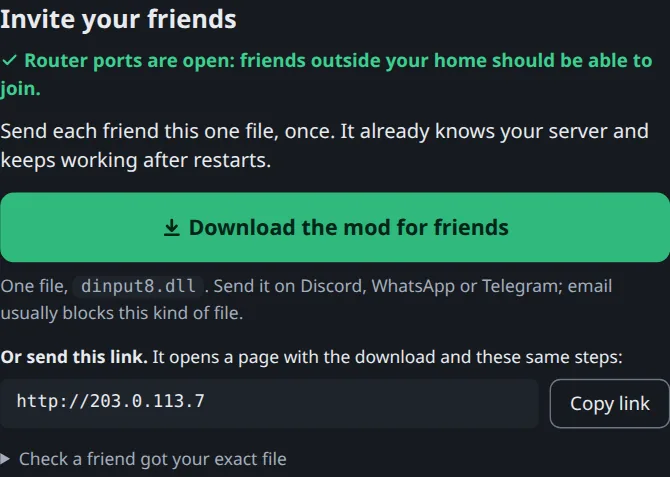
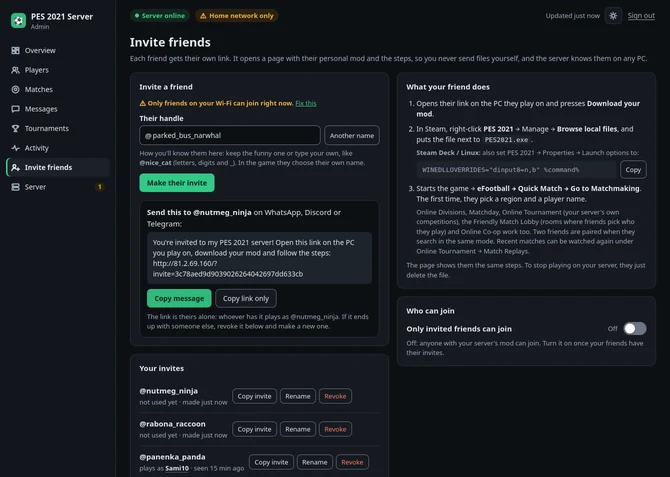
README and website: Linux-only hosting, install once, update on the admin page, invites

diff --git a/docs/index.html b/docs/index.html
@@ -447,35 +447,33 @@ footer a { color: var(--muted); display: inline-block; padding: 3px 0; }
       <div class="card step" id="host">
         <div>
           <div class="step-num" aria-hidden="true">1</div>
-          <h3>The host starts the server</h3>
-          <p class="small">One person hosts on their PC (Windows, Linux or Steam Deck) and keeps it on while you play: one line, about a minute, nothing to install.</p>
-          <p class="small muted"><b>Windows:</b> open the Start menu, type <b>PowerShell</b>, press Enter, paste the Windows line and press Enter. <b>Linux:</b> open a terminal (on Ubuntu <b>Ctrl+Alt+T</b>) and paste the Linux line. <b>Steam Deck:</b> switch to Desktop Mode, open <b>Konsole</b> and paste the Linux line.</p>
-          <p class="small muted">It downloads the server (15–30 MB, no administrator rights needed) and shows <b>your admin page</b> and <b>its password</b>. Keep that window open while you play; <b>Ctrl+C</b> or closing it stops the server. Next time, paste the same line: it always starts the newest version.</p>
+          <h3>The host installs the server</h3>
+          <p class="small">One person hosts on their <b>Linux</b> PC or <b>Steam Deck</b> and keeps it on while you play: one line, once, about a minute.</p>
+          <p class="small muted"><b>Linux:</b> open a terminal (on Ubuntu <b>Ctrl+Alt+T</b>) and paste the line. <b>Steam Deck:</b> switch to Desktop Mode, open <b>Konsole</b> and paste it.</p>
+          <p class="small muted">It downloads the server (about 30 MB, no sudo), runs it <b>in the background</b> (it starts by itself when you log in), adds <b>PES 2021 Server</b> to your apps menu and opens <b>your admin page</b>. You can close the terminal. Updating, restarting and stopping are buttons on the admin page (Server).</p>
         </div>
         <div>
-          <div class="cmd"><span class="label">Windows PowerShell</span><pre id="c-host-win">irm https://<wbr>raw.<wbr>githubusercontent.<wbr>com/<wbr>MohamedAliRashad/<wbr>pes2021-private-server/<wbr>main/<wbr>run.<wbr>ps1 | iex</pre><button class="copy" data-copy="c-host-win" type="button">Copy</button></div>
-          <div class="cmd"><span class="label">Linux, Steam Deck, Mac terminal</span><pre id="c-host">curl -fsSL https://<wbr>raw.<wbr>githubusercontent.<wbr>com/<wbr>MohamedAliRashad/<wbr>pes2021-private-server/<wbr>main/<wbr>run.<wbr>sh | sh</pre><button class="copy" data-copy="c-host" type="button">Copy</button></div>
+          <div class="cmd"><span class="label">Linux or Steam Deck terminal</span><pre id="c-host">curl -fsSL https://<wbr>raw.<wbr>githubusercontent.<wbr>com/<wbr>MohamedAliRashad/<wbr>pes2021-private-server/<wbr>main/<wbr>run.<wbr>sh | sh</pre><button class="copy" data-copy="c-host" type="button">Copy</button></div>
           <div class="banner-mock" role="img" aria-label="Example of what the host sees when the server is ready: the admin page address and its password.">
             <div class="bm-title">⚽ PES 2021 SERVER <span>● ONLINE</span></div>
             <div><span class="bm-k">Admin page</span>http://192.168.1.50/admin</div>
             <div><span class="bm-k">Password</span>k7Rm-2Qx9-PaLw</div>
           </div>
           <ul class="small muted linuxes">
-            <li><b>Windows:</b> the first time, Windows asks whether to let the server through its firewall: click <b>Allow</b>. New, needs testers.</li>
-            <li><b>Linux:</b> on Linux the admin page is at <code>http://&lt;address&gt;:8080/admin</code> (the window shows it). If it says <code>curl: command not found</code>, run <code>sudo apt install curl</code> first. <b>Fedora</b> also needs its firewall opened: <code>sudo firewall-cmd --permanent --add-port={8080,10000}/tcp --add-port={3478,7600}/udp &amp;&amp; sudo firewall-cmd --reload</code></li>
-            <li><b>Steam Deck, Mac (Apple silicon):</b> new, needs testers.</li>
+            <li><b>Linux:</b> the admin page is at <code>http://localhost:8080/admin</code> on the server's own PC (from other devices: <code>http://&lt;address&gt;:8080/admin</code> with the password on its Server page). If it says <code>curl: command not found</code>, run <code>sudo apt install curl</code> first. <b>Fedora</b> also needs its firewall opened: <code>sudo firewall-cmd --permanent --add-port={8080,10000}/tcp --add-port={3478,7600}/udp &amp;&amp; sudo firewall-cmd --reload</code></li>
+            <li><b>Steam Deck:</b> new, needs testers.</li>
             <li>Tested on a desktop Linux PC. Players who use the mod need nothing else; the older "join line" setup without the mod needs port 443, which on Linux only a server started with administrator rights gets.</li>
           </ul>
           <details class="changes">
             <summary>What the line does</summary>
             <ul>
-              <li>Prefer to read it first? <a href="https://github.com/MohamedAliRashad/pes2021-private-server/blob/main/run.ps1">run.ps1</a> (Windows) and <a href="https://github.com/MohamedAliRashad/pes2021-private-server/blob/main/run.sh">run.sh</a> (Linux, Mac) are about 40 lines each.</li>
-              <li>Downloads the server program from this project's <a href="https://github.com/MohamedAliRashad/pes2021-private-server/releases/latest">latest release</a> (built by GitHub from the public code), only when there's a newer one, and runs it in that window as your own user: no administrator rights, nothing installed system-wide. It uses about 50 MB of memory.</li>
-              <li>Keeps the program, players, results and its log in one folder: <code>%LOCALAPPDATA%\PES2021 Server</code> on Windows, <code>~/.local/share/pes2021-server</code> on Linux. Delete that folder to remove everything.</li>
+              <li>Prefer to read it first? <a href="https://github.com/MohamedAliRashad/pes2021-private-server/blob/main/run.sh">run.sh</a> is about 50 lines.</li>
+              <li>Downloads the server program from this project's <a href="https://github.com/MohamedAliRashad/pes2021-private-server/releases/latest">latest release</a> (built by GitHub from the public code) and sets it up as your own user, no sudo: a <code>systemd --user</code> service (so it runs without a window and starts when you log in), an apps-menu entry and the <code>pes2021-server</code> command. Updates from the admin page are checked against the release's checksums and test-run before they replace the program.</li>
+              <li>Keeps the program, players, results and its log in one folder: <code>~/.local/share/pes2021-server</code>.</li>
               <li>Opens ports on your router (UPnP) so friends outside your home can reach you, and closes them when the server stops; after a power cut they usually expire on their own within 2 hours.</li>
               <li>If PES 2021 is installed on this computer, the admin page can put the mod in for you with one click. On Linux it also sets the Wine option in the game's Proton prefix (only its registry file is changed, and a backup copy, <code>user.reg.pes2021-backup</code>, is kept next to it).</li>
               <li>The admin page is plain HTTP and opens only from your home network (and Tailscale).</li>
-              <li>While your router ports are open, your server's address is public: anyone who has it can open your friends' page, download the mod and join. There's no ban yet; <b>Kick</b> on the admin page disconnects someone, but they can come back.</li>
+              <li>While your router ports are open, your server's address is public: anyone who has it can open your friends' page, download the mod and join, unless you turn on <b>Only invited friends can join</b> (Invite friends). <b>Revoke</b> locks one person out.</li>
             </ul>
           </details>
         </div>
@@ -484,16 +482,16 @@ footer a { color: var(--muted); display: inline-block; padding: 3px 0; }
       <div class="card step" id="share">
         <div>
           <div class="step-num" aria-hidden="true">2</div>
-          <h3>The host sends friends one file</h3>
-          <p class="small muted">Open your admin page, sign in with the password, and click <b>Download the mod for friends</b>. You get one small file, <code>dinput8.dll</code>, made for your server.</p>
+          <h3>The host invites each friend</h3>
+          <p class="small muted">On your admin page open <b>Invite friends</b> and press <b>Make their invite</b>. Each friend gets a handle like <b>@nutmeg_ninja</b> (keep the funny one or type your own) and their own link; the page they open has their personal mod and the steps.</p>
           <p class="small muted"><b>Before you send it,</b> look at the top of your admin page: <b>✓ Router ports open</b> means friends outside your home should be able to connect. If it says <b>Friends use</b> and your address (you set a fixed one), friends can connect only if that address's ports are open; the server can't check this itself. If it says <b>Home network only</b>, only friends on your Wi-Fi can join; for friends elsewhere, or if it warns about router ports or CGNAT, see <a href="#hosthelp">Help → For hosts</a>.</p>
-          <p class="small muted">Send it to each friend on <b>Discord, WhatsApp or Telegram</b>. Email usually blocks this kind of file. Or copy the link under the button (your server's address) and send that: it opens a page where friends download the file themselves.</p>
+          <p class="small muted"><b>Copy message</b> and send it on <b>Discord, WhatsApp or Telegram</b>. The link is theirs alone: it's how the server knows them on any PC. In the game they still pick their own name.</p>
           <p class="small muted"><b>First test:</b> have one friend start the game. They appear under <b>Online now</b> on your admin page within a minute.</p>
         </div>
         <div>
           <figure class="mini-shot">
-            <a class="light" href="admin-invite-light.webp"><img src="admin-invite-light.webp" width="670" height="477" loading="lazy" alt="The top of the real admin page: Invite your friends, the router status, a large Download the mod for friends button, and a link to send instead."></a>
-            <a class="dark" href="admin-invite-dark.webp"><img src="admin-invite-dark.webp" width="670" height="477" loading="lazy" alt="The top of the real admin page in dark mode: Invite your friends, the router status, a large Download the mod for friends button, and a link to send instead."></a>
+            <a class="light" href="admin-invite-light.webp"><img src="admin-invite-light.webp" width="670" height="477" loading="lazy" alt="The real admin page, Invite friends: a handle box with @nutmeg_ninja, Make their invite, the message with their personal link to copy, and the list of invites."></a>
+            <a class="dark" href="admin-invite-dark.webp"><img src="admin-invite-dark.webp" width="670" height="477" loading="lazy" alt="The real admin page in dark mode, Invite friends: a handle box, Make their invite, the message with their personal link to copy, and the list of invites."></a>
             <figcaption class="small muted">Click or tap to enlarge.</figcaption>
           </figure>
           <p class="small muted"><b>Playing on the same PC?</b> If the installer found PES 2021 on it, the admin page has a <b>The server computer</b> card: close the game and click <b>Install mod</b>.</p>
@@ -583,7 +581,6 @@ footer a { color: var(--muted); display: inline-block; padding: 3px 0; }
         <thead><tr><th scope="col">What you see</th><th scope="col">What to do</th></tr></thead>
         <tbody>
           <tr><td>The window says "The server can't start: port … is already in use"</td><td>Another server is already running on this computer: close its window, then paste the line again.</td></tr>
-          <tr><td>Windows says "Windows protected your PC"</td><td>That happens if you downloaded the .exe with a browser (the program isn't signed). Click <b>More info → Run anyway</b>, or use the PowerShell line instead.</td></tr>
           <tr><td>The host's screen says "Router ports are closed"</td><td>Turn on UPnP in your router's settings and start the server again, or forward the ports it lists.</td></tr>
           <tr><td>The host's screen warns about "CGNAT"</td><td>Your internet provider shares one public IP between customers, so friends outside your home can't reach you. Use Tailscale (see <a href="#faq-far">playing with friends far away</a>).</td></tr>
           <tr><td>It works on the host's PC, but nobody else can connect</td><td>The host computer's own firewall is blocking the ports. On Ubuntu with ufw: <code>sudo ufw allow 80,443,8080,10000/tcp</code> and <code>sudo ufw allow 3478,7600/udp</code>. On Fedora: <code>sudo firewall-cmd --permanent --add-port={80,443,8080,10000}/tcp --add-port={3478,7600}/udp &amp;&amp; sudo firewall-cmd --reload</code>. On a cloud server, also open them in the provider's firewall settings.</td></tr>
@@ -654,21 +651,21 @@ footer a { color: var(--muted); display: inline-block; padding: 3px 0; }
       <p>Probably: one test between two homes connected fine (the match itself then needed the mod fix above). The server opens the host's router ports automatically; the match itself then needs the two players' PCs to reach each other directly. If they can't ("Failed to connect with opponent"), put everyone on one private network with <a href="https://tailscale.com">Tailscale</a>, a free app for small groups (this workaround is untested too):</p>
       <ul>
         <li>Everyone installs Tailscale and joins the host's network.</li>
-        <li>The host stops the server and starts it again with their Tailscale address (shown in the Tailscale app), then downloads a fresh mod file for friends:</li>
+        <li>The host runs the install line again with their Tailscale address (shown in the Tailscale app); the server restarts with it. Friends then open their invite links again for a fresh mod:</li>
       </ul>
-      <div class="cmd"><span class="label">Windows PowerShell: replace 100.x.y.z with the host's Tailscale address</span><pre id="c-ts-win">$env:PUBLIC_IP="100.<wbr>x.<wbr>y.<wbr>z"; irm https://<wbr>raw.<wbr>githubusercontent.<wbr>com/<wbr>MohamedAliRashad/<wbr>pes2021-private-server/<wbr>main/<wbr>run.<wbr>ps1 | iex</pre><button class="copy" data-copy="c-ts-win" type="button">Copy</button></div>
-      <div class="cmd"><span class="label">Linux, Steam Deck, Mac</span><pre id="c-ts">curl -fsSL https://<wbr>raw.<wbr>githubusercontent.<wbr>com/<wbr>MohamedAliRashad/<wbr>pes2021-private-server/<wbr>main/<wbr>run.<wbr>sh | PUBLIC_IP=100.<wbr>x.<wbr>y.<wbr>z sh</pre><button class="copy" data-copy="c-ts" type="button">Copy</button></div>
+      <div class="cmd"><span class="label">Linux or Steam Deck: replace 100.x.y.z with the host's Tailscale address</span><pre id="c-ts">curl -fsSL https://<wbr>raw.<wbr>githubusercontent.<wbr>com/<wbr>MohamedAliRashad/<wbr>pes2021-private-server/<wbr>main/<wbr>run.<wbr>sh | PUBLIC_IP=100.<wbr>x.<wbr>y.<wbr>z sh</pre><button class="copy" data-copy="c-ts" type="button">Copy</button></div>
       <p>The server now has a built-in relay for exactly this case, on by default: when the two PCs can't reach each other, the match runs through the host's server instead (it needs a few more router ports, which the server opens with UPnP). So far it has only been tested on one PC, so Tailscale stays the safe fallback.</p>
     </details>
     <h3 class="faqh" id="faq-hosts">For hosts</h3>
     <details class="q" id="faq-host">
       <summary>How do I see the password again, stop or update the server?</summary>
       <ul>
-        <li><b>The admin page:</b> on the server's own PC it opens without a password (<code>http://localhost:8080/admin</code>, or <code>http://localhost/admin</code> on Windows). Other devices on your Wi-Fi or Tailscale use the address and password shown in the server's window. Away from home, turn on <b>Admin page from the internet</b> on its Network card: it then opens at <code>https://&lt;your internet address&gt;:8080/admin</code>, encrypted, with the password. The browser warns once, because the certificate is the server's own; the Network card shows its fingerprint.</li>
-        <li><b>Started with the one line (your PC):</b> the address and password are in the server's window. <b>Ctrl+C</b> or closing the window stops it (and closes the router ports it opened). Paste the same line to start it again: it updates itself first, and players, results and friends' mod files are kept. The admin page also tells you when a newer version is out.</li>
-        <li>Remove everything: first click <b>Uninstall</b> on the admin page's server-computer card (if you used it). Then delete the server's folder: <code>%LOCALAPPDATA%\PES2021 Server</code> on Windows, <code>~/.local/share/pes2021-server</code> on Linux. This deletes players, results and the server's identity, so old mod files stop working.</li>
+        <li><b>The admin page:</b> on the server's own PC it opens without a password: <b>PES 2021 Server</b> in your apps menu (it also starts a stopped server), <code>pes2021-server open</code>, or <code>http://localhost:8080/admin</code>. Other devices on your Wi-Fi or Tailscale use the address and password on its <b>Server</b> page. Away from home, turn on <b>Admin page from the internet</b> on the Network card.</li>
+        <li><b>Update, restart, stop:</b> admin page → <b>Server</b> → <b>The server program</b>. When a newer version is out a banner says so: <b>Update now</b>, or <b>Update when nobody's playing</b>. The server restarts in a few seconds; players, results and friends' mods are kept. <b>Start when I log in</b> switches the background start on or off.</li>
+        <li>If something is broken, run the install line again: it repairs the setup and updates the program.</li>
+        <li>Remove everything: click <b>Uninstall</b> on the admin page's server-computer card (if you used it), stop the server, run <code>systemctl --user disable pes2021-server</code>, then delete <code>~/.local/share/pes2021-server</code>, <code>~/.config/systemd/user/pes2021-server.service</code>, <code>~/.local/share/applications/pes2021-server.desktop</code> and <code>~/.local/bin/pes2021-server</code>. This deletes players, results and the server's identity, so old mod files stop working.</li>
       </ul>
-      <p><b>Who can join?</b> Anyone who has your mod file or your server's address. While your router ports are open, that address is public, so share it only with friends. There's no ban yet: <b>Kick</b> disconnects someone, but they can reconnect; stopping the server closes the ports.</p>
+      <p><b>Who can join?</b> With <b>Only invited friends can join</b> on (Invite friends), only friends you invited. Otherwise anyone who has your server's mod or address; while your router ports are open, that address is public. <b>Revoke</b> on an invite locks that person out.</p>
     </details>
     <details class="q" id="faq-update">
       <summary>After I update the server, do friends need a new file?</summary>

diff --git a/docs/protocol.html b/docs/protocol.html
@@ -387,7 +387,7 @@ code{overflow-wrap:anywhere} .note a, .panel a{color:var(--accent)}
 <p class="totop"><a href="#contents">↑ Back to contents</a></p>
 <h2 id="deploy">Deployment</h2>
 <div class="panel"><ol>
-  <li>Host: <code>run.ps1</code> / <code>run.sh</code> download the newest program from the latest GitHub release (PyInstaller, built by <code>.github/workflows/program.yml</code>) and run it in a window. No configuration: <code>netsetup.py</code> finds the LAN IP, asks the router for its external IP and opens TCP 80/443/8080/10000 + UDP 3478/7600 over UPnP IGD (renewed every 30 min, removed on stop), checks the public IP against a what-is-my-IP service to detect CGNAT, and prints the admin page address and password. It also looks for <code>PES2021.exe</code> (Steam libraries, <code>~/Games</code>) and their Wine prefixes, for the admin page's one-click install (on Windows, Steam's registry entry). <span class="tag t-ok">LIVE</span></li>
+  <li>Host (Linux): <code>run.sh</code> downloads the newest program from the latest GitHub release (PyInstaller, built by <code>.github/workflows/program.yml</code>) and runs <code>pes2021-server install</code>: a systemd user service, an apps-menu entry, then the admin page. Updates (checked against the release's <code>SHA256SUMS</code> and test-run), restart and stop are on the admin page. No configuration: <code>netsetup.py</code> finds the LAN IP, asks the router for its external IP and opens TCP 80/443/8080/10000 + UDP 3478/7600 over UPnP IGD (renewed every 30 min, removed on stop), checks the public IP against a what-is-my-IP service to detect CGNAT, and prints the admin page address and password. It also looks for <code>PES2021.exe</code> (Steam libraries, <code>~/Games</code>) and their Wine prefixes, for the admin page's one-click install (on Windows, Steam's registry entry). <span class="tag t-ok">LIVE</span></li>
   <li><b>Per-client address</b>: SVRLIST / URLLIST / GAMERELAY carry the server address. Without a pinned <code>PUBLIC_IP</code>, a client from a non-global address (LAN, Tailscale 100.64/10, loopback) gets the local address its TCP connection reached (<code>sockname</code>); <span class="tag t-ok">LIVE</span> An internet client gets the public IP, so one server can serve LAN and internet players at once (no internet client tested yet). <span class="tag t-inf">INFERRED</span></li>
   <li><b>The mod</b> (<code>server/mod/</code>, built by the image's first stage with MinGW): a <code>dinput8.dll</code> proxy (exports forwarded to the system DLL) that hooks <code>ws2_32</code> <code>getaddrinfo</code> / <code>GetAddrInfoW</code> / <code>GetAddrInfoExW</code> / <code>gethostbyname</code> for the 6 Konami names, and <code>winhttp</code> <code>WinHttpConnect</code> / <code>OpenRequest</code> / <code>SendRequest</code> for the NTL certificate exception, plus <code>WinHttpCloseHandle</code> (to forget closed handles) and <code>user32</code> <code>CreateWindowExW</code> / <code>CreateWindowExA</code> (to start the server lookup, or the Shift box, when the game's first window opens). Hooks are MinHook detours in the system DLLs; the game's own code is not touched. Loaded under Proton via <code>WINEDLLOVERRIDES="dinput8=n,b"</code> or the per-program registry override <code>[Software\\Wine\\AppDefaults\\PES2021.exe\\DllOverrides] "dinput8"="native,builtin"</code>, which the admin page writes into the prefix's <code>user.reg</code>. <span class="tag t-ok">LIVE</span></li>
   <li><b>Server identity</b>: an Ed25519 key in the data volume. <code>/mod/dinput8.dll</code> writes the public key and the server's addresses into a 2 KB reserved section of the DLL (<code>.pescfg</code>). Before using an address the mod GETs <code>/mod/hello?n=&lt;random nonce&gt;</code> and checks the signature (Monocypher); to find the server again it fetches a signed <code>/mod/note</code> (time + addresses) and ignores notes not signed by that key or older than the last one seen. Tested in the game: fresh download, dead web link plus wrong IP, forged note rejected. <span class="tag t-ok">LIVE</span></li>
@@ -417,7 +417,7 @@ code{overflow-wrap:anywhere} .note a, .panel a{color:var(--accent)}
 <tr><td class="mono">server/pesserver/announce.py</td><td>news list and pop-up, box before Quick Match, restart warning, kick notes (state in <code>announce.json</code>)</td></tr>
 <tr><td class="mono">server/pesserver/events.py · gamesetup.py</td><td>admin page data (online, live phases, results, league, activity) · "The server computer" mod install into mounted game folders</td></tr>
 <tr><td class="mono">server/mod/</td><td>the mod: <code>dinput8.dll</code> proxy, MinHook hooks, Monocypher signature check; built by <code>mod/build.sh</code> (MinGW); the network test goes to port 8080</td></tr>
-<tr><td class="mono">run.sh · run.ps1 · server/packaging/</td><td>start lines that fetch the newest program and run it in a window; PyInstaller build and smoke test</td></tr>
+<tr><td class="mono">run.sh · server/packaging/ · pesserver/hostctl.py</td><td>the install line (Linux): fetches the newest program and sets it up as a systemd user service with an apps-menu entry; updates, restart and stop from the admin page; PyInstaller build and smoke test</td></tr>
 </table></div>
 <p>Run: <code>python3 -m pesserver</code> (the program's host mode), or <code>python3 -m pesserver serve</code> for development (ncl is the default codec). Every request is logged decoded (<code>RX … CMD_…</code>).</p>
 

diff --git a/README.md b/README.md
@@ -5,28 +5,35 @@
 Konami shut down the PES 2021 servers. Run your own and play **online Quick Match** with your friends.
 Free, no accounts.
 
-You need **PES 2021 on Steam** (v1.01.00). The host needs a PC that stays on while you play: **Windows, Linux or
-Steam Deck**, nothing else to install.
+You need **PES 2021 on Steam** (v1.01.00). The host needs a **Linux** PC or **Steam Deck** that stays on while you
+play; nothing else to install. Friends can play on Linux, Steam Deck or Windows.
 
-## 1. Host: start the server
+## 1. Host: install the server (once)
 
-**Windows** (Start menu → PowerShell):
-
-```powershell
-irm https://raw.githubusercontent.com/MohamedAliRashad/pes2021-private-server/main/run.ps1 | iex
-```
-
-**Linux, Steam Deck, Mac** (terminal):
+In a terminal:
 
 ```bash
 curl -fsSL https://raw.githubusercontent.com/MohamedAliRashad/pes2021-private-server/main/run.sh | sh
 ```
 
-It downloads the server (one program, 15–30 MB, no admin rights) and prints your **admin page** and its
-**password**. On the server's own PC the admin page opens without the password; other devices on your Wi-Fi
-(or Tailscale) use it. To open it from anywhere, turn on **Admin page from the internet** on its Network card
-(HTTPS: the browser warns once, since the certificate is the server's own). Keep the window open while you play: **Ctrl+C** or closing it stops the server. Paste the same line
-next time: it always starts the newest version.
+It downloads the server (one program, about 30 MB, no sudo), sets it up to run **in the background** (it starts by
+itself when you log in), adds **PES 2021 Server** to your apps menu and opens the **admin page** in your browser. You
+can close the terminal.
+
+From then on everything is on the admin page:
+
+- **Server → The server program:** **Update now** (or **Update when nobody's playing**) when a new version is out,
+  **Restart**, **Stop the server**, **Start when I log in**, and the recent log.
+- To open the admin page again, or to start a stopped server: **PES 2021 Server** in your apps menu, or
+  `pes2021-server open`.
+- On the server's own PC the admin page opens without a password; other devices on your Wi-Fi (or Tailscale) use the
+  password shown on the Server page. To open it from anywhere, turn on **Admin page from the internet** on its
+  Network card (HTTPS: the browser warns once, since the certificate is the server's own).
+
+Options (after `sh -s --`): `--here` runs it in the terminal instead (Ctrl+C stops it), `--no-autostart` doesn't
+start it when you log in, `--data DIR` keeps players and results somewhere else. Running the line again repairs the
+setup and updates the program; players, results and friends' mods are kept. Already ran an older version in a
+terminal? Close it (Ctrl+C), then run the line once.
 
 ## 2. Host: invite your friends
 
@@ -65,16 +72,15 @@ delete the file.
 |---|---|
 | A friend can't connect | The host's server must be running. The mod writes what it tried to `pes2021-online.log` in the game folder |
 | "Router ports are closed" on the host | Turn on **UPnP** in your router settings and start the server again, or forward the ports it lists |
-| The match ends right after kick-off ("unforeseen circumstances") | A Windows player and a Linux / Steam Deck player computed the match differently. Both download the mod again from the admin page (version 0.4.0 or newer keeps their games in step), and the host updates the server (paste the start line again) |
-| "Failed to connect with opponent" | The two PCs can't reach each other directly. Everyone installs [Tailscale](https://tailscale.com); the host starts the server again with `PUBLIC_IP=<host's Tailscale IP>` before `sh` (PowerShell: `$env:PUBLIC_IP="…";` before `irm`) |
+| The match ends right after kick-off ("unforeseen circumstances") | A Windows player and a Linux / Steam Deck player computed the match differently. Both open their invite link again and download their mod (version 0.4.0 or newer keeps their games in step), and the host updates the server (admin page → Server → **Update now**) |
+| "Failed to connect with opponent" | The two PCs can't reach each other directly. Everyone installs [Tailscale](https://tailscale.com); the host runs the install line again with `PUBLIC_IP=<host's Tailscale IP>` before `sh` (`curl -fsSL … \| PUBLIC_IP=100.x.y.z sh`) |
 | Play on another server | Get that server's file and replace yours, or hold **Shift** while the game starts and paste its address |
 
-**New players** need nothing from you: the first time someone with your mod goes online (eFootball →
-Quick Match), the game asks for a region and a player name, and your server saves that player, tied to
-their copy of the mod (each game folder gets its own player, also when the game reports the same Steam ID).
+**New players:** the first time a friend goes online with their mod (eFootball → Quick Match), the game asks for
+a region and a player name, and your server saves that player, tied to their invite (the same player on any PC).
 They appear on the admin page, where you can also delete a player.
 
-Updating: paste your start line again (the admin page also tells you when a newer version is out).
+**Updating:** the admin page tells you when a newer version is out; press **Update now** (Server page, or the banner).
 
 <details><summary><b>Set up earlier with a join line?</b></summary>
 

diff --git a/server/README.md b/server/README.md
@@ -97,6 +97,34 @@ Each invite has a `link`, `/mod/dinput8.dll?invite=<code>` on this server's web 
 only (whoever has the link or the file plays as them). A friend who already played gets their old account moved
 onto the invite the first time they sign in with it, if you made the invite with their `pid`.
 
+## The host program on Linux: install, update, restart
+
+`run.sh` downloads the program to `~/.local/share/pes2021-server/` and runs `pes2021-server install`
+(`pesserver/hostctl.py`):
+
+- a systemd user service, `~/.config/systemd/user/pes2021-server.service` (`PES_SERVICE=1`; exit code 75 means
+  "restart me"), enabled unless `--no-autostart`;
+- `~/.local/share/applications/pes2021-server.desktop` ("PES 2021 Server": `pes2021-server open` starts the
+  server if needed and opens the admin page) and `~/.local/bin/pes2021-server`;
+- then it starts the service and opens `http://localhost:8080/admin`. `--here` runs it in the terminal instead.
+
+The admin page (Server → The server program) uses the admin API:
+
+```bash
+curl -s -H "Authorization: Bearer $T" $A/program                                 # version, update state, autostart, log
+curl -s -H "Authorization: Bearer $T" -X POST $A/program/update -d '{"when": "now"}'   # or "idle", "cancel"
+curl -s -H "Authorization: Bearer $T" -X POST $A/program/restart -d '{}'
+curl -s -H "Authorization: Bearer $T" -X POST $A/program/stop -d '{}'
+curl -s -H "Authorization: Bearer $T" -X POST $A/program/autostart -d '{"on": true}'
+curl -s -H "Authorization: Bearer $T" -X POST $A/program/background -d '{}'      # a server in a terminal -> the service
+```
+
+An update downloads the release's `pes2021-server-linux-x64` (or `-arm64`) next to the program, checks it against
+the release's `SHA256SUMS`, test-runs it (`pes2021-server selfcheck`), swaps it in and restarts (as a service:
+exit 75 and systemd starts it again; in a terminal: in place). "idle" waits until no match is running.
+`PESSERVER_RELEASE_URL` points it at another copy of a release (tests). Run from source, these report why they
+can't work.
+
 ## Code layout
 
 | Path | What |
@@ -116,6 +144,7 @@ onto the invite the first time they sign in with it, if you made the invite with
 | `pesserver/peswords.py` | the host's word filter: whole words or phrases in `<data>/blocked_words.txt` (one a line) are refused in player names, room names and profile texts |
 | `pesserver/pesinvite.py` | invites: one mod per friend with a handle and a secret code (sent on the mod's id line); invites only, revoke = ban, unique player names |
 | `pesserver/announce.py` | news, messages to one player (their Information list), restart warning, lobby welcome notes |
+| `pesserver/hostctl.py` | the Linux host program: `install` (systemd user service, apps-menu entry), `open`, `selfcheck`; update from the admin page (checksum, self-check, swap, restart), restart, stop, start when I log in |
 | `pesserver/httpgate.py` | HTTP/HTTPS web API, `GateInfo.php`, `/ca.crt` |
 | `pesserver/stun.py` | STUN responder |
 | `pesserver/liveupdate.py`, `cpkread.py` | the host's Live Update: the newest CPK in `<data>/liveupdate/` is offered to every game (CMD_GET_DLC_FILELIST) and served at `/liveupdate/<name>`; build one with `notes/re/functions/tools/mklivedata.py` |
